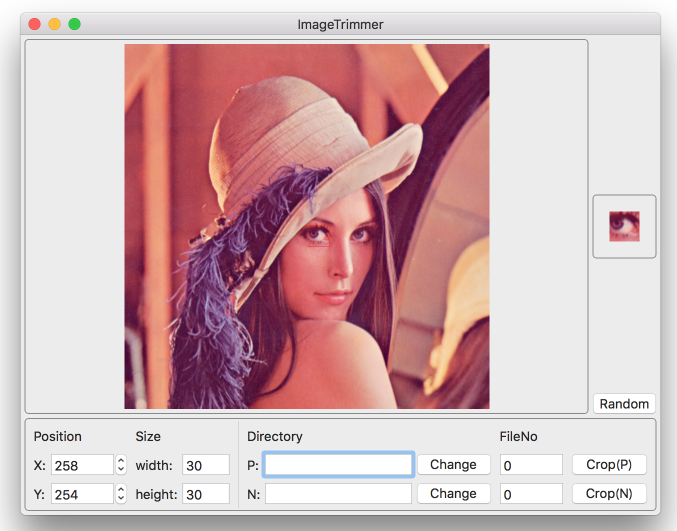
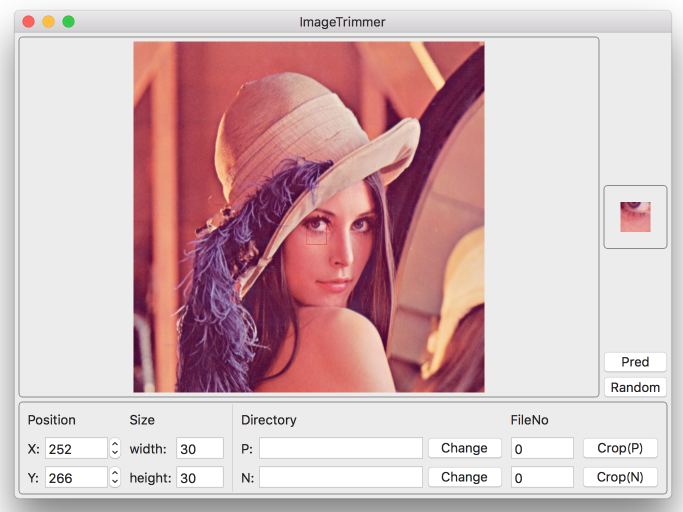
Update readme

diff --git a/readme.md b/readme.md
@@ -8,12 +8,16 @@ Xcode8/Swift3/OSX
 Currently, it's specialized for binary classification.
 
 ## Usage
-### Trim manually
+
+### Common
 ![Main Window](./Resources/main.png)
 
 1. Drag and drop image in the upper box.
 1. Set output directories and file numbers(they will increment automatically).
 1. Set width and height.
+
+### Trim manually
+1. [Common](#Common)
 1. Set x and y(Input value, or just click image).
 1. Trimming preview will be shown on the right box.
 1. Press "Crop(P)" or "Crop(N)" button to trim and save positive/negative image.
@@ -23,11 +27,23 @@ Can zoom, scroll.
 ### Trim randomly
 ![Random trimming](./Resources/random.png)
 
-1. Drag and drop image in upper box of main window.
-1. Set output directory and start file number.
-1. Set width and height.
+1. [Common](#Common)
 1. Press "Random" button, then new window will open.
 1. Randomly trimmed image will be shown, Press "Positive"/"Negative" button to save image.
+
+### Search and Trim Positive-like point
+![Predictive trimming](./Resources/pred.png)
+
+Need Positive and Negative samples.  
+This feature may not be working well.  
+
+1. [Common](#Common)
+1. Press "Pred" button.
+1. Select directory which contains "Positive" samples(size of images and the values you set mus be same).
+1. Select "Negative" directory likewise.
+1. New window will open. Set stride and click "CropNext" button.
+1. Positive-like image will be shown, Press "Positive"/"Negative" button to save image.
+
 
 ## Licence
 [MIT Licence](./LICENSE)
